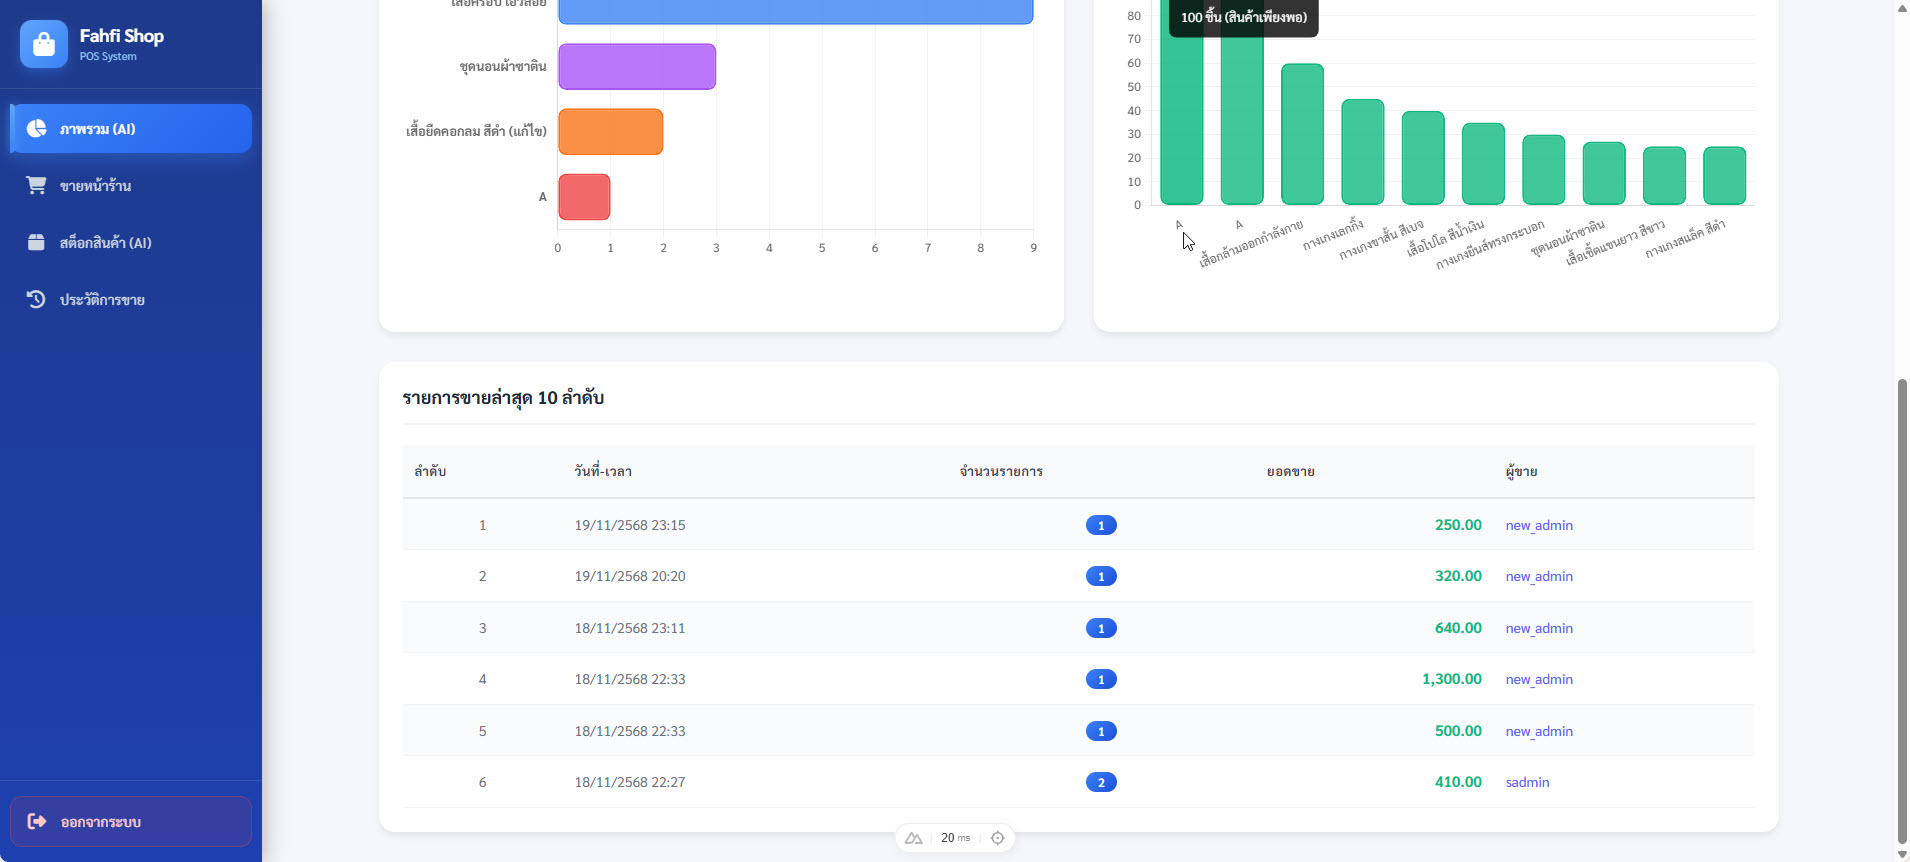
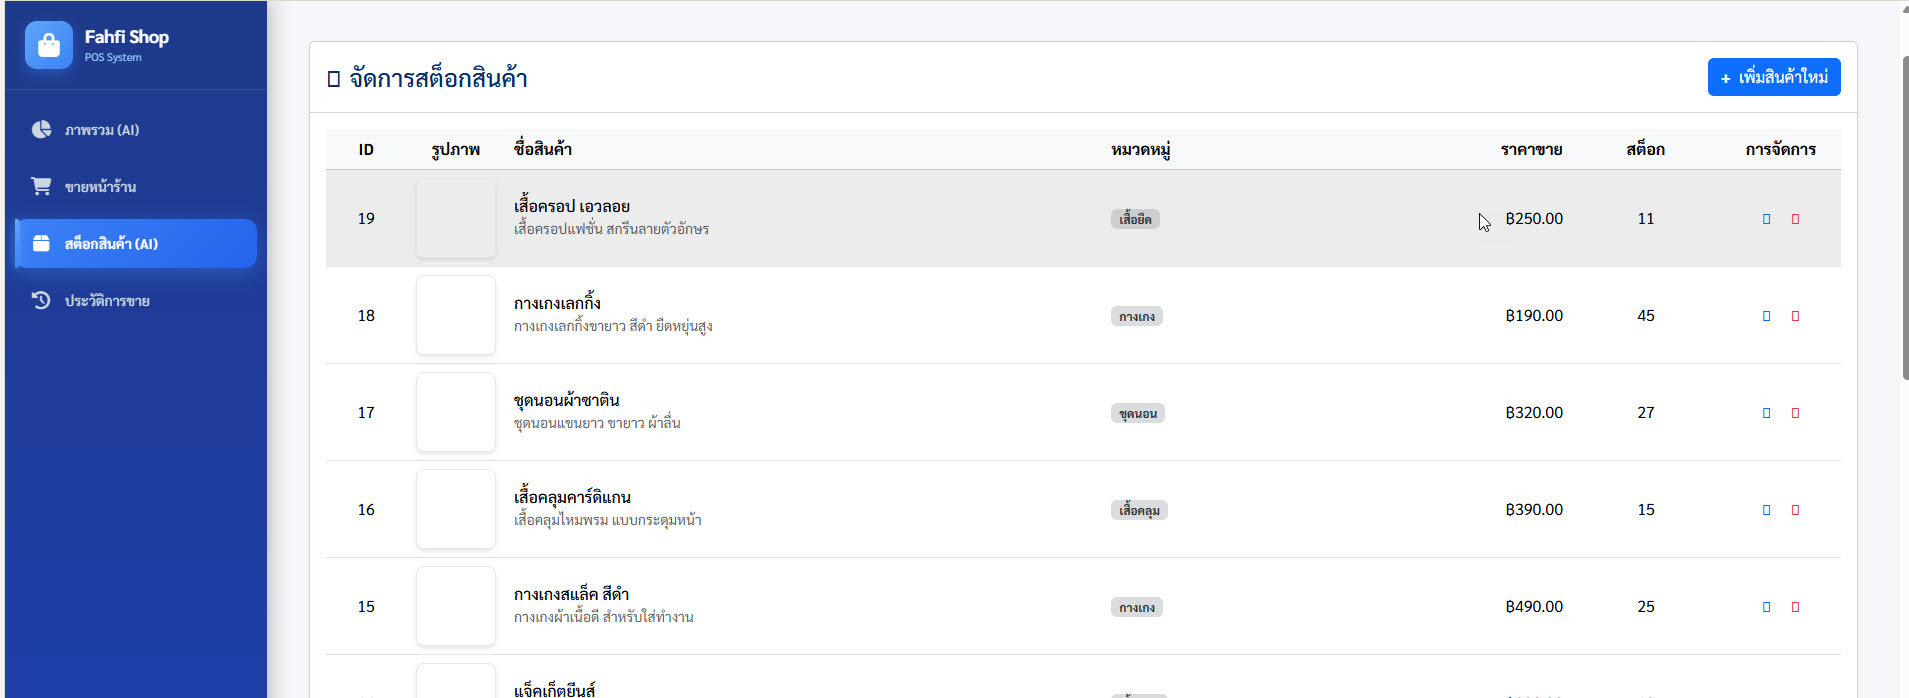
Add

diff --git a/frontend/app/pages/products.vue b/frontend/app/pages/products.vue
@@ -1,5 +1,8 @@
 <template>
   <div class="container-fluid my-4">
+    <!-- Font Awesome CDN (Ensure it's loaded) -->
+    <link rel="stylesheet" href="https://cdnjs.cloudflare.com/ajax/libs/font-awesome/6.6.0/css/all.min.css" />
+
     <div v-if="error" class="alert alert-danger">
       เกิดข้อผิดพลาดในการดึงข้อมูล: {{ error.message }}
     </div>
@@ -29,6 +32,7 @@
             <thead class="table-light">
               <tr>
                 <th class="text-center" style="width: 80px;">ID</th>
+                <th class="text-center" style="width: 100px;">รูปภาพ</th>
                 <th>ชื่อสินค้า</th>
                 <th>หมวดหมู่</th>
                 <th class="text-end">ราคาขาย</th>
@@ -38,10 +42,23 @@
             </thead>
             <tbody>
               <tr v-if="!products || products.length === 0">
-                <td colspan="6" class="text-center text-muted py-4">ไม่พบข้อมูลสินค้า</td>
+                <td colspan="7" class="text-center text-muted py-4">ไม่พบข้อมูลสินค้า</td>
               </tr>
               <tr v-for="product in products" :key="product.id">
                 <td class="text-center">{{ product.id }}</td>
+                <td class="text-center">
+                  <div v-if="product.product_image_url" class="product-image-cell">
+                    <img
+                      :src="product.product_image_url"
+                      :alt="product.name"
+                      class="product-thumbnail"
+                      onerror="this.src='https://via.placeholder.com/80?text=No+Image'"
+                    />
+                  </div>
+                  <div v-else class="product-image-placeholder">
+                    <i class="fas fa-image"></i>
+                  </div>
+                </td>
                 <td>
                   <h6 class="mb-0">{{ product.name }}</h6>
                   <small v-if="product.details" class="text-muted">{{ product.details }}</small>
@@ -50,11 +67,11 @@
                 <td class="text-end">฿{{ product.sell_price.toLocaleString() }}</td>
                 <td class="text-center">{{ product.stock_quantity }}</td>
                 <td class="text-center">
-                  <button class="btn btn-sm btn-outline-primary border-0 me-1" data-bs-toggle="modal" data-bs-target="#productModal" @click="openEditModal(product)">
-                    <i class="fas fa-edit"></i>
+                  <button class="btn btn-sm btn-outline-primary border-0 me-2 action-btn-edit" title="แก้ไข" data-bs-toggle="modal" data-bs-target="#productModal" @click="openEditModal(product)">
+                    <i class="fas fa-pen-to-square"></i>
                   </button>
-                  <button class="btn btn-sm btn-outline-danger border-0" @click="handleDelete(product.id, product.name)">
-                    <i class="fas fa-trash-alt"></i>
+                  <button class="btn btn-sm btn-outline-danger border-0 action-btn-delete" title="ลบ" @click="handleDelete(product.id, product.name)">
+                    <i class="fas fa-trash"></i>
                   </button>
                 </td>
               </tr>
@@ -109,6 +126,55 @@
                 <textarea class="form-control" rows="2" v-model="currentProduct.details"></textarea>
               </div>
 
+              <!-- Image Upload Section -->
+              <div class="mb-3">
+                <label for="product_image" class="form-label">รูปภาพสินค้า</label>
+                <div class="image-upload-area">
+                  <!-- Preview Image -->
+                  <div v-if="currentProduct.product_image_url || imagePreview" class="mb-2">
+                    <img
+                      :src="imagePreview || currentProduct.product_image_url"
+                      alt="Product Preview"
+                      class="product-preview-img"
+                    />
+                    <small class="d-block text-muted mt-2">
+                      {{ currentProduct.product_image_url ? 'URL รูปภาพปัจจุบัน' : 'ตัวอย่างรูปภาพที่เลือก' }}
+                    </small>
+                  </div>
+
+                  <!-- File Input or URL Input -->
+                  <div class="upload-options">
+                    <div class="mb-2">
+                      <label class="form-label small">อัปโหลดรูปภาพ</label>
+                      <input
+                        type="file"
+                        class="form-control"
+                        accept="image/jpeg,image/png,image/jpg"
+                        @change="handleImageUpload"
+                        :disabled="uploadingImage"
+                      />
+                      <small class="text-muted">รองรับไฟล์ JPG, PNG เท่านั้น (ไม่เกิน 5MB)</small>
+                      <div v-if="uploadingImage" class="mt-2">
+                        <div class="spinner-border spinner-border-sm" role="status">
+                          <span class="visually-hidden">กำลังอัปโหลด...</span>
+                        </div>
+                        <span class="ms-2">กำลังอัปโหลดรูปภาพ...</span>
+                      </div>
+                    </div>
+
+                    <div class="mb-2">
+                      <label class="form-label small">หรือใส่ URL รูปภาพ</label>
+                      <input
+                        type="url"
+                        class="form-control"
+                        placeholder="https://example.com/image.jpg"
+                        v-model="currentProduct.product_image_url"
+                      />
+                    </div>
+                  </div>
+                </div>
+              </div>
+
               <div v-if="modalError" class="alert alert-danger mt-3">
                 {{ modalError }}
               </div>
@@ -146,10 +212,13 @@ const products = ref(null);
 const pending = ref(true); // สถานะกำลังโหลด (สำคัญ)
 const error = ref(null);
 const token = useCookie("token");
+const { handleApiError } = useApiError();
 
 // 4. ตัวแปร State สำหรับ Modal (กล่องเด้ง)
 const modalMode = ref("add"); // 'add' หรือ 'edit'
 const modalError = ref(null);
+const uploadingImage = ref(false); // สถานะการอัปโหลดรูปภาพ
+const imagePreview = ref(null); // Preview รูปภาพที่เลือก
 
 // (นี่คือ "พิมพ์เขียว" หรือ "กล่องเปล่า" สำหรับฟอร์ม)
 const defaultProductForm = {
@@ -176,9 +245,64 @@ const fetchProducts = async () => {
     });
     products.value = response.data; // เก็บข้อมูล
   } catch (err) {
+    // ตรวจสอบ Auth Error (403, 401)
+    const isAuthError = await handleApiError(err);
+    if (isAuthError) return;
+
     error.value = err.response ? err.response.data : err;
   } finally {
     pending.value = false; // โหลดเสร็จแล้ว (ไม่ว่าจะสำเร็จหรือล้มเหลว)
+  }
+};
+
+// (เพิ่มใหม่) ฟังก์ชันอัปโหลดรูปภาพ
+const handleImageUpload = async (event) => {
+  const file = event.target.files[0];
+  if (!file) return;
+
+  // ตรวจสอบขนาดไฟล์ (ไม่เกิน 5MB)
+  if (file.size > 5 * 1024 * 1024) {
+    modalError.value = "ขนาดไฟล์ไม่ควรเกิน 5MB";
+    return;
+  }
+
+  // สร้าง preview สำหรับแสดงให้ผู้ใช้เห็นก่อน
+  const reader = new FileReader();
+  reader.onload = (e) => {
+    imagePreview.value = e.target.result;
+  };
+  reader.readAsDataURL(file);
+
+  // อัปโหลดรูปไปยัง Backend
+  uploadingImage.value = true;
+  try {
+    const formData = new FormData();
+    formData.append("image", file);
+
+    const response = await axios.post(
+      "http://localhost:3001/api/upload",
+      formData,
+      {
+        headers: {
+          Authorization: `Bearer ${token.value}`,
+          "Content-Type": "multipart/form-data",
+        },
+      }
+    );
+
+    // ถ้าอัปโหลดสำเร็จ ให้เก็บ URL รูปภาพ
+    currentProduct.value.product_image_url = response.data.imageUrl;
+    modalError.value = null;
+  } catch (err) {
+    // ตรวจสอบ Auth Error (403, 401)
+    const isAuthError = await handleApiError(err);
+    if (isAuthError) return;
+
+    modalError.value =
+      "ไม่สามารถอัปโหลดรูปภาพได้: " +
+      (err.response ? err.response.data.message : err.message);
+  } finally {
+    uploadingImage.value = false;
   }
 };
 
@@ -203,6 +327,7 @@ const openAddModal = () => {
   modalMode.value = "add";
   currentProduct.value = { ...defaultProductForm }; // รีเซ็ตฟอร์มให้ว่าง
   modalError.value = null;
+  imagePreview.value = null; // รีเซ็ต preview รูปภาพ
 };
 
 // (เมื่อกดปุ่ม "แก้ไข" ในตาราง)
@@ -210,6 +335,7 @@ const openEditModal = (product) => {
   modalMode.value = "edit";
   currentProduct.value = { ...product }; // คัดลอกข้อมูลสินค้ามาใส่ฟอร์ม
   modalError.value = null;
+  imagePreview.value = null; // รีเซ็ต preview รูปภาพ
 };
 
 // (เมื่อกด "บันทึก" (Submit) ในฟอร์ม)
@@ -263,6 +389,10 @@ const handleDelete = async (productId, productName) => {
     // (อาจจะเพิ่ม Toast Notification "ลบสำเร็จ" ที่นี่ในอนาคต)
 
   } catch (err) {
+    // ตรวจสอบ Auth Error (403, 401)
+    const isAuthError = await handleApiError(err);
+    if (isAuthError) return;
+
     // 4. จัดการ Error (เช่น ลบไม่ได้เพราะมีประวัติการขาย)
     const message = err.response ? err.response.data.message : err.message;
     console.error('Error deleting product:', message);
@@ -271,7 +401,7 @@ const handleDelete = async (productId, productName) => {
 };
 </script>
 
-<style>
+<style scoped>
 * {
   font-family: 'Sarabun', -apple-system, BlinkMacSystemFont, 'Segoe UI', sans-serif;
 }
@@ -279,5 +409,118 @@ const handleDelete = async (productId, productName) => {
 .table td,
 .table th {
   vertical-align: middle;
+}
+
+/* Product Image Styles */
+.product-image-cell {
+  display: flex;
+  justify-content: center;
+  align-items: center;
+}
+
+.product-thumbnail {
+  width: 80px;
+  height: 80px;
+  object-fit: cover;
+  border-radius: 8px;
+  border: 1px solid #e5e7eb;
+  box-shadow: 0 2px 4px rgba(0, 0, 0, 0.1);
+  transition: all 0.3s ease;
+}
+
+.product-thumbnail:hover {
+  transform: scale(1.05);
+  box-shadow: 0 4px 8px rgba(0, 0, 0, 0.15);
+}
+
+.product-image-placeholder {
+  width: 80px;
+  height: 80px;
+  display: flex;
+  justify-content: center;
+  align-items: center;
+  background: #f3f4f6;
+  border-radius: 8px;
+  border: 2px dashed #d1d5db;
+  color: #9ca3af;
+  font-size: 24px;
+}
+
+/* Image Upload Styles */
+.image-upload-area {
+  background: #f9fafb;
+  padding: 16px;
+  border-radius: 8px;
+  border: 1px solid #e5e7eb;
+}
+
+.product-preview-img {
+  max-width: 200px;
+  max-height: 200px;
+  width: auto;
+  height: auto;
+  border-radius: 8px;
+  border: 1px solid #e5e7eb;
+  box-shadow: 0 2px 8px rgba(0, 0, 0, 0.1);
+}
+
+.upload-options {
+  background: white;
+  padding: 12px;
+  border-radius: 6px;
+}
+
+.upload-options .mb-2 {
+  margin-bottom: 12px;
+}
+
+.upload-options .form-label {
+  color: #374151;
+  font-weight: 600;
+  margin-bottom: 6px;
+}
+
+.upload-options small {
+  display: block;
+  color: #6b7280;
+  margin-top: 4px;
+}
+
+/* Action Button Styles */
+.action-btn-edit,
+.action-btn-delete {
+  padding: 8px 10px;
+  font-size: 16px;
+  display: inline-flex;
+  align-items: center;
+  justify-content: center;
+  min-width: 36px;
+  height: 36px;
+  transition: all 0.2s ease;
+}
+
+.action-btn-edit {
+  color: #3b82f6;
+}
+
+.action-btn-edit:hover {
+  background-color: #dbeafe;
+  color: #1d4ed8;
+  transform: scale(1.1);
+}
+
+.action-btn-delete {
+  color: #ef4444;
+}
+
+.action-btn-delete:hover {
+  background-color: #fee2e2;
+  color: #b91c1c;
+  transform: scale(1.1);
+}
+
+.action-btn-edit i,
+.action-btn-delete i {
+  font-size: 16px;
 }
 </style>
